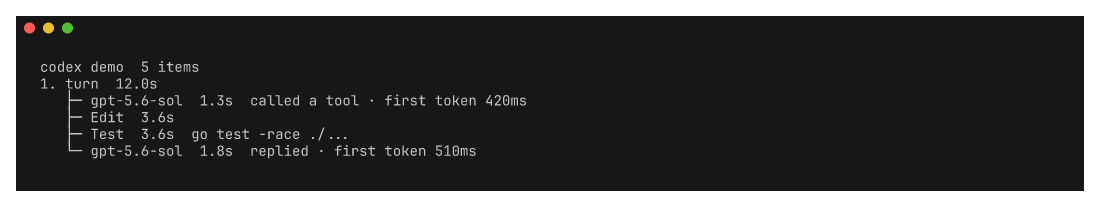
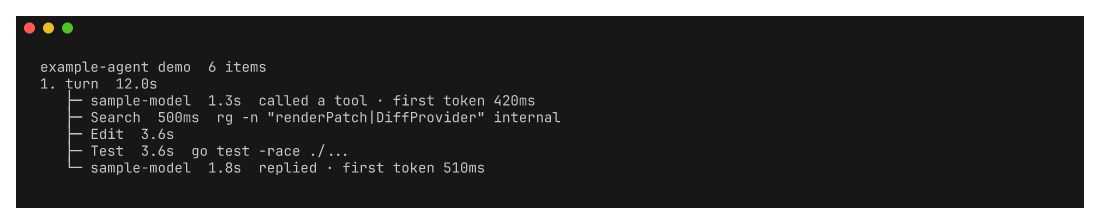
docs: refresh installation and demos

Changed region(s): [[0.0309, 0.2609, 0.5255, 0.7826], [0.0309, 0.8986, 0.9891, 0.9565], [0.0, 0.058, 0.9891, 0.1739]]

diff --git a/README.md b/README.md
@@ -36,7 +36,7 @@ nix profile install github:roshbhatia/traces#provider-git
 Install the provider-neutral core and its shell completions with Homebrew:
 
 ```bash
-brew install --cask roshbhatia/tap/traces
+brew install roshbhatia/tap/traces
 ```
 
 `go install github.com/roshbhatia/traces@latest` also installs only the core.
